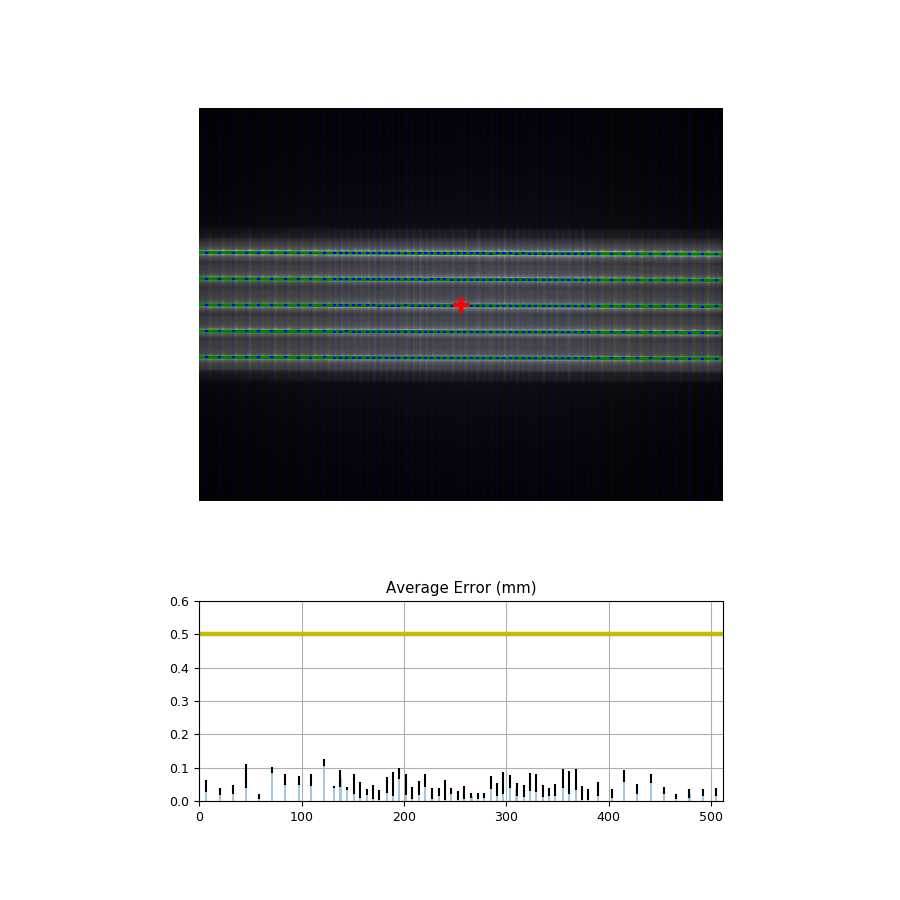
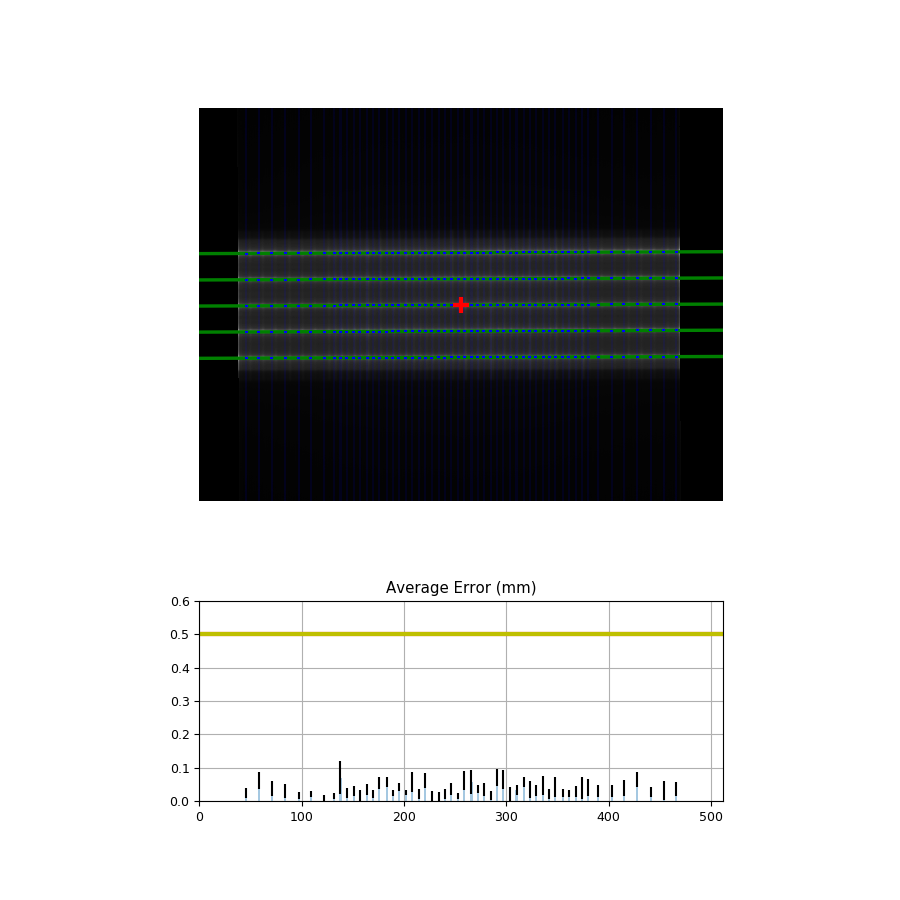
Fixed problem in displaying MLCAlign screenshot in the pdf report. Autosave the report to NAS drive and displays the path after savign in QMessageBox.

diff --git a/Start.py b/Start.py
@@ -42,6 +42,7 @@ class StartQT(  QtWidgets.QMainWindow):
         self.ui = Ui_MainWindow()
         self.ui.setupUi(self)
 
+
         #Connect signal slots
         self.ui.pushButtonMLCQAMonthly.clicked.connect(self.AutoReportMonthlyMLCQA)
 
@@ -321,7 +322,8 @@ class StartQT(  QtWidgets.QMainWindow):
         MLCAlignDlg1.MLCAlignWidget.axes.set_xlabel('Pixel No. A-B', fontsize=8)
         MLCAlignDlg1.MLCAlignWidget.axes.set_ylabel('Pixel No. T-G', fontsize=8)
         MLCAlignDlg1.MLCAlignWidget.draw()
-        self.SaveWidgetScreenShot(MLCAlignDlg1.MLCAlignWidget, 'MLCAlignment.jpg')
+        MLCAlignDlg1.MLCAlignWidget.figure.savefig('MLCAlignment.jpg')
+        #self.SaveWidgetScreenShot(MLCAlignDlg1, 'MLCAlignment.jpg')
         MLCAlignDlg1.exec_()
 
         if self.Mode == "Manual":
@@ -390,7 +392,7 @@ class StartQT(  QtWidgets.QMainWindow):
 
 
     def CreatePDFReportMLCMonthlyQA(self):
-        mcID =QtWidgets.QInputDialog.getText(self, "Enter M/C ID", "M/C ID:", 0)
+        mcID =QtWidgets.QInputDialog.getText(self, "Enter M/C ID", "M/C ID [LA1/LA2/LA3/LA4]:", 0)
         #mcID = QtGui.QComboBox(self,"M/C ID:")
         msrBy =QtWidgets.QInputDialog.getText(self, "Initials", "Measured by:", 0)
         if mcID[1] == True and msrBy[1] == True:
@@ -477,6 +479,8 @@ class StartQT(  QtWidgets.QMainWindow):
 
             # Save the PDF to database -"D:\MLC QA\LA ID" LA ID=LA1/LA2/LA3/LA4
             c.save()
+            ReportTxt="Report saved to:"+self.reportStr
+            QtWidgets.QMessageBox.about(self, "Information",ReportTxt )
             os.startfile(self.reportStr)
 
 

diff --git a/Script_WedgeWidget.py b/Script_WedgeWidget.py
@@ -95,7 +95,7 @@ class WedgeWidget(QtWidgets.QDialog,Ui_Form):
                 #self.profiler.axes.hold(True)
                 xProfileCombined=self.Img3[384,:]*-1.0
                 self.profiler.axes.plot(xProfileCombined,'b')
-                self.profiler.axes.hold(True)
+                #self.profiler.axes.hold(True)
 
                 xValues=np.linspace(0,1024,1024)
                 yValuesUP=np.ones([1024])*(self.CentreMeanValue+self.CentreMeanValue*0.02)
@@ -129,7 +129,7 @@ class WedgeWidget(QtWidgets.QDialog,Ui_Form):
                 #self.profiler.axes.hold(True)
                 yProfileCombined=self.Img3[:,512]*-1.0
                 self.profiler.axes.plot(yProfileCombined,'b')
-                self.profiler.axes.hold(True)
+                #self.profiler.axes.hold(True)
 
                 xValues=np.linspace(0,768,768)
                 yValuesUP=np.ones([768])*(self.CentreMeanValue+self.CentreMeanValue*0.02)

diff --git a/Scratch.py b/Scratch.py
@@ -1,0 +1,6 @@
+import sys
+import os.path,time
+from PyQt5 import QtCore, QtGui, QtWidgets,Qt
+
+
+QtWidgets.QMessageBox.about("Title", "Message")
